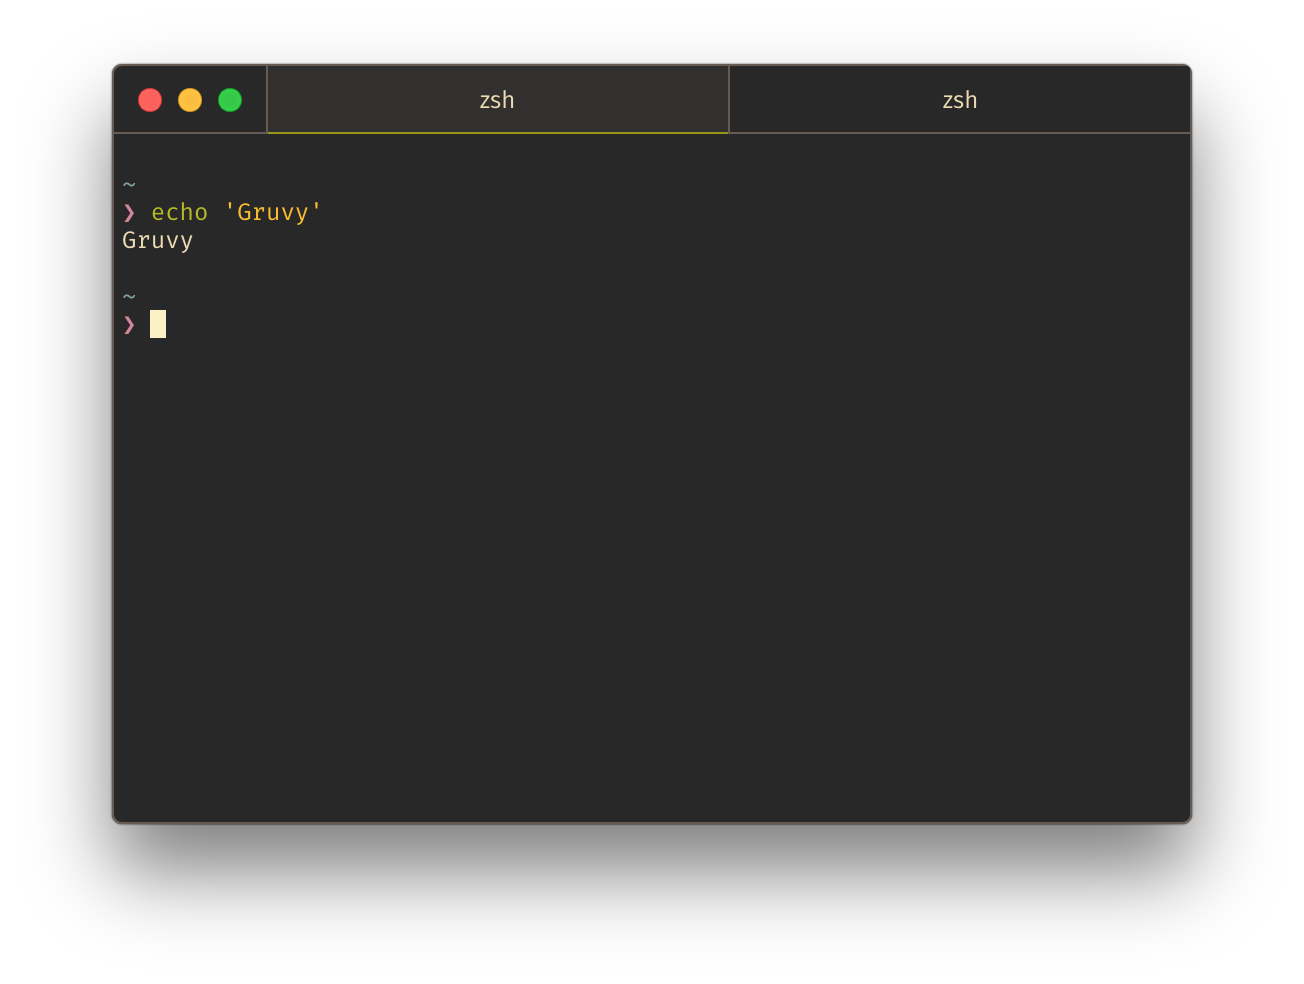
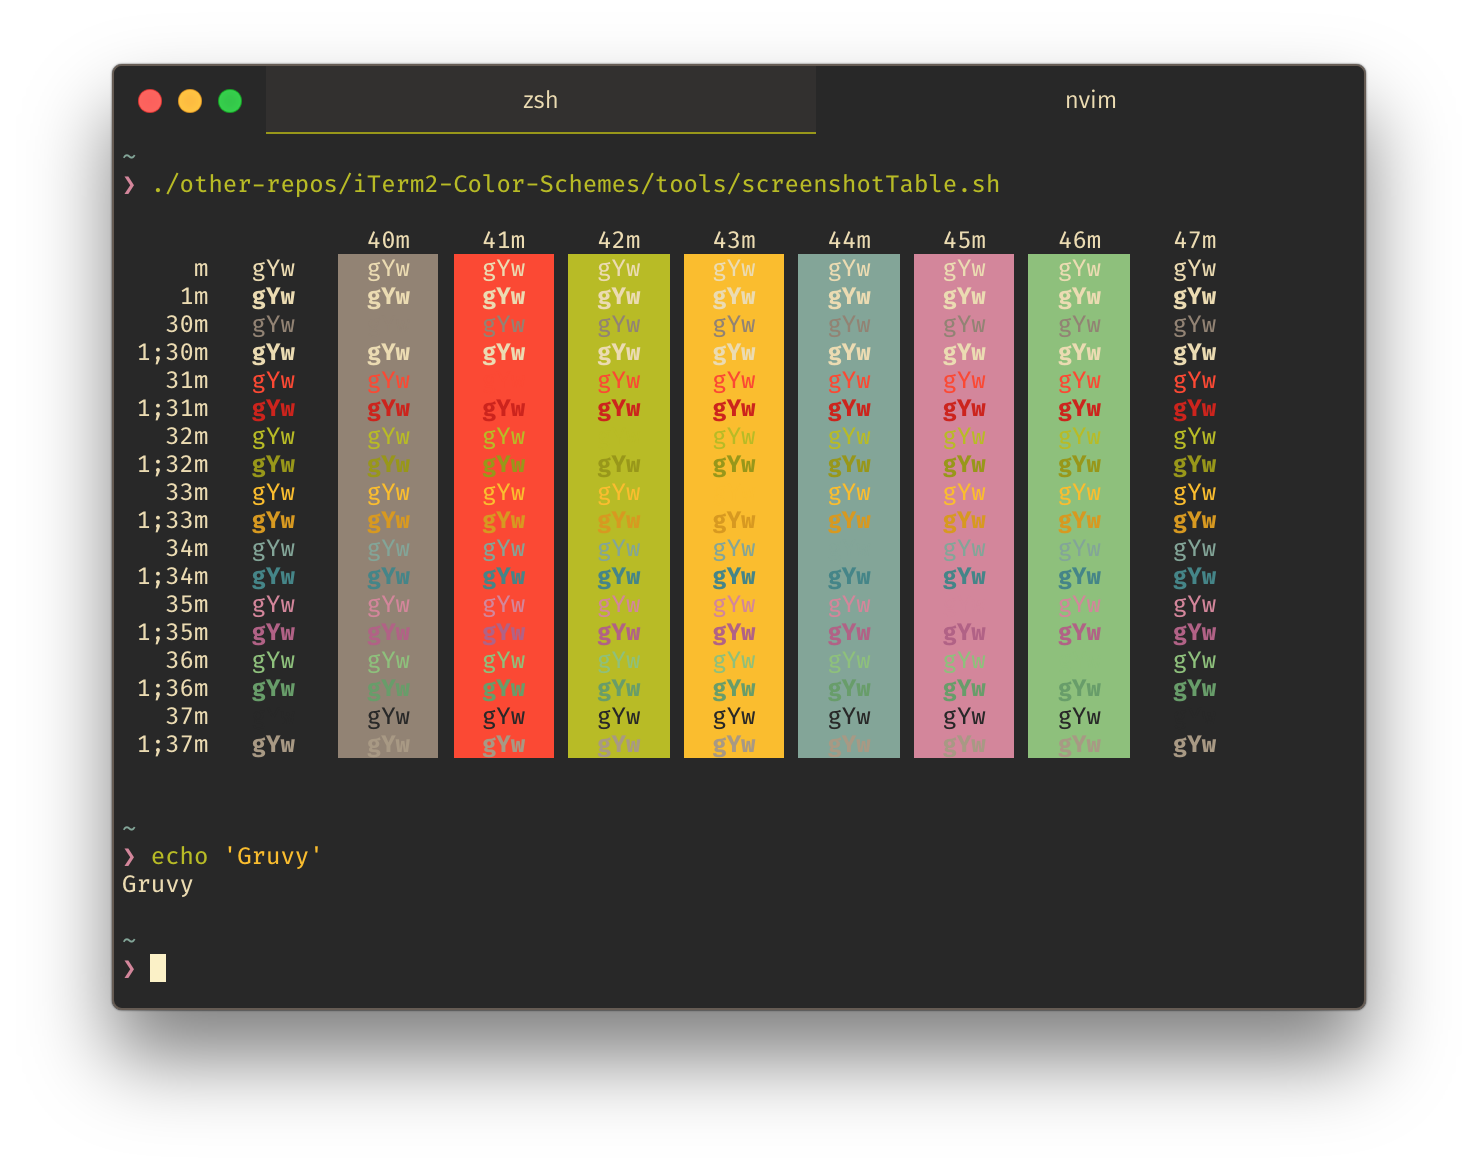
Update tab borders

diff --git a/index.js b/index.js
@@ -46,9 +46,13 @@ exports.decorateConfig = config => {
     ],
     css: `
       ${config.css || ''}
+      .tabs_list,
       .tab_tab {
         color: ${foregroundColor} !important;
-        background-color: ${backgroundColor};
+        border-color: transparent !important;
+      }
+      .tab_tab {
+        background-color: transparent;
       }
       .tab_active {
         background-color: #32302f;
